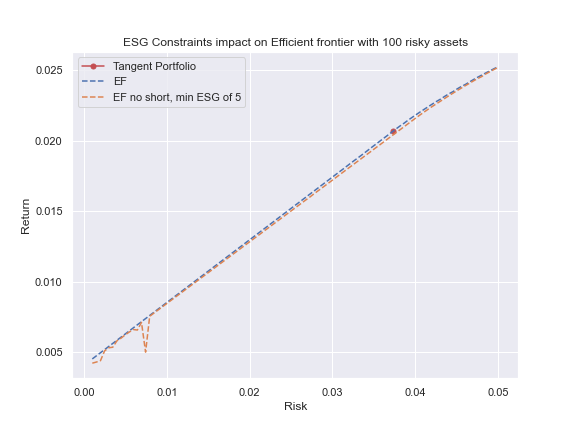
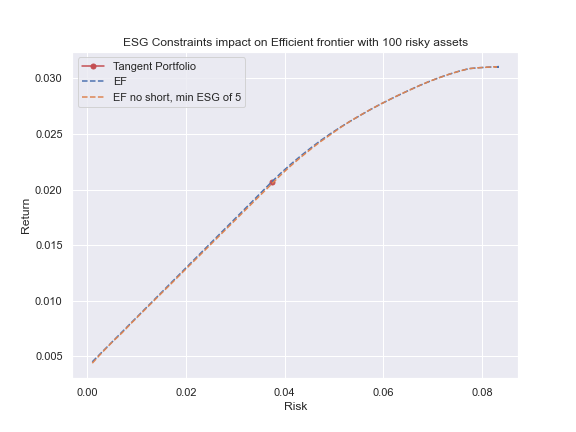
various fixes, figures and improvements

diff --git a/Portfolio.py b/Portfolio.py
@@ -7,14 +7,16 @@ Created on Tue Apr 23 14:33:32 2024
 import numpy as np
 import matplotlib.pyplot as plt
 from scipy.optimize import minimize, LinearConstraint, NonlinearConstraint
+import math
 
 class Portfolio:
-    def __init__(self,mu,sigma, rf, short_sales = True):
+    def __init__(self,mu,sigma, rf, short_sales = True, sectors = None):
         self.mu = mu
         self.sigma = sigma
         self.rf = rf
         self.n = len(mu)
         self.short_sales = short_sales
+        self.sectors = sectors
         
         # Is the risk-free included in the mean and covariance
         self.rf_params = False
@@ -45,14 +47,14 @@ class Portfolio:
         return weights.T.dot(self.mu)
     
     def get_sharpe(self, weights):
-        return ((self.get_return(weights) - self.rf)/ np.sqrt(self.get_variance(weights)))
+        return ((self.get_return(weights) - self.rf)/ self.get_risk(weights))
     
     def neg_mean_variance(self, weights, gamma):
-        
+        # Negative mean-variance objective
         return 1/2 * self.get_variance(weights) - gamma * self.get_return(weights)
         
     def neg_sharpe(self, weights):
-        return (- (self.get_return(weights) - self.rf)/ np.sqrt(self.get_variance(weights)))
+        return (- (self.get_return(weights) - self.rf)/ self.get_risk(weights))
     
     def neg_return(self,weights):
         return - weights.T.dot(self.mu)
@@ -69,7 +71,7 @@ class Portfolio:
     
     def bounds(self, input_bounds = None):
         if self.short_sales:
-            bounds = [(-1.0, 1.0) for _ in range(self.n)]
+            bounds = None
         elif input_bounds is None:
             bounds = [(0.0, 1.0) for _ in range(self.n)]
         else:
@@ -104,6 +106,7 @@ class Portfolio:
                           constraints = constraints, bounds = boundaries)            
             
         else:
+            # Mean variance tradeoff
             result = minimize(self.neg_mean_variance, x0 = initial_weights, 
                           args = (gamma,), method = 'SLSQP', 
                           constraints = constraints, bounds = boundaries)
@@ -120,22 +123,28 @@ class Portfolio:
 
         if method == 3:
             for c in np.linspace(min_ret, max_ret, n_points):
-                weights = self.optimal_portfolio(3, min_return = c, new_constraints= new_constraints)
-                risks.append(np.sqrt(self.get_variance(weights)))
-                returns.append(self.get_return(weights))
-                sharpes.append(- self.neg_sharpe(weights))
+                weights = self.optimal_portfolio(3, min_return = c, new_constraints = new_constraints)
+                risk = self.get_risk(weights)
+                if not(math.isnan(risk)):
+                    risks.append(risk)
+                    returns.append(self.get_return(weights))
+                    sharpes.append(- self.neg_sharpe(weights))
         elif method == 2:
             for c in np.linspace(min_std, max_std, n_points): 
-                weights = self.optimal_portfolio(2, max_risk= c, new_constraints= new_constraints)
-                risks.append(np.sqrt(self.get_variance(weights)))
-                returns.append(self.get_return(weights))
-                sharpes.append(- self.neg_sharpe(weights))            
+                weights = self.optimal_portfolio(2, max_risk= c, new_constraints = new_constraints)
+                risk = self.get_risk(weights)
+                if not(math.isnan(risk)):
+                    risks.append(risk)
+                    returns.append(self.get_return(weights))
+                    sharpes.append(- self.neg_sharpe(weights))            
         else: 
             for gamma in np.linspace(min_risk_tol, max_risk_tol, n_points):
-                weights = self.optimal_portfolio(1, gamma = gamma, new_constraints= new_constraints)
-                risks.append(np.sqrt(self.get_variance(weights)))
-                returns.append(self.get_return(weights))
-                sharpes.append(- self.neg_sharpe(weights))
+                weights = self.optimal_portfolio(1, gamma = gamma, new_constraints = new_constraints)
+                risk = self.get_risk(weights)
+                if not(math.isnan(risk)):
+                    risks.append(risk)
+                    returns.append(self.get_return(weights))
+                    sharpes.append(- self.neg_sharpe(weights))
         return risks, returns, sharpes
     
     def tangent_portfolio(self):

diff --git a/ScoreMaker.py b/ScoreMaker.py
@@ -65,7 +65,7 @@ class ScoreMaker:
             tau = 0
             for agency in self.dict_agencies:
                 #tau += kendalltau(self.dict_agencies[agency][self.valid_tickers], mix_labels, variant = 'c').statistic / len(dict_agencies)
-                tau += -kendalltau(self.ranks, mix_labels, variant = 'c').statistic
+                tau += -kendalltau(self.ranks[agency], mix_labels, variant = 'c').statistic
 
             if tau >= taumax:
                 taumax = tau
@@ -77,10 +77,11 @@ class ScoreMaker:
         return full_scores, taumax
     
     def make_score(self, full_scores):
+        
         mean_ranks = full_scores.groupby('labels').mean()
         global_mean_ranks = mean_ranks.mean(axis = 1)
         global_mean_ranks = global_mean_ranks.sort_values()
-
+        
         sorted_labels = global_mean_ranks.index.tolist()  # Get the sorted cluster labels
         
         # Create a mapping dictionary from original labels to sorted labels
@@ -89,9 +90,36 @@ class ScoreMaker:
 
         # Map the labels in the original DataFrame according to the sorted order
         full_scores['sorted_labels'] = full_scores['labels'].map(label_mapping)
+        
+        rank_stats = pd.DataFrame({'labels': global_mean_ranks.index, 'mean': global_mean_ranks.values})
+        rank_stats['labels'].map(label_mapping)
+        rank_stats['std'] = full_scores.groupby('sorted_labels').std().mean(axis=1)
+
+        self.full_ranks = full_scores
+        self.rank_stats = rank_stats
 
         ESGTV = pd.DataFrame({'Tag':self.valid_tickers,'Score':full_scores['sorted_labels']})
 
         ESGTV.dropna(inplace = True)
         return ESGTV
+    
+    def get_mean_ranks(self, labels_column = 'sorted_labels'):
+        agencies = self.full_ranks.columns[:4]
+        rank_df = pd.DataFrame(columns = agencies)
+        dfc = self.full_ranks.copy()
+        for agency in agencies:
+            mr = dfc[[agency, labels_column]].groupby(labels_column).mean().to_dict()
+            rank_df[agency] = mr[agency]
+            rank_df['cluster_mean_rank'] = rank_df.mean(axis=1)
+        return rank_df
+
+    def get_std_ranks(self, labels_column = 'sorted_labels'):
+        agencies = self.full_ranks.columns[:4]
+        rank_df = pd.DataFrame(columns = agencies)
+        dfc = self.full_ranks.copy()
+        for agency in agencies:
+            mr = dfc[[agency, labels_column]].groupby(labels_column).std().to_dict()
+            rank_df[agency] = mr
+            rank_df['cluster_std_rank'] = rank_df.mean(axis=1)
+        return rank_df
     

diff --git a/test_real_ESG.py b/test_real_ESG.py
@@ -35,18 +35,21 @@ sectors_list = SG.valid_sector_df
 SM = ScoreMaker(scores_ranks, dict_agencies, valid_tickers, valid_indices, 7)
 
 SMK = SM.kmeans()
+SMG, taumax = SM.classify_gaussian_mixture()
 
 ESGTV = SM.make_score(SMK)
+ESGTV2 = SM.make_score(SMG)
 
 # Worst score approach
-#ESGTV2 = SG.worst_score(scores_ranks, n_classes = 7)
+#ESGTV3 = SG.worst_score(scores_ranks, n_classes = 7)
+
 
 #%% Get the stock data and keep the companies in common with the target variable
 st = Stocks(path, annual_rf)
 st.process_data()
 st.compute_monthly_returns()
-_ = st.keep_common_tickers(ESGTV, sectors_list)
-stocks_ESG = st.restrict_assets(100)
+_ = st.keep_common_tickers(ESGTV2, sectors_list)
+stocks_ESG = st.restrict_assets(5)
 st.compute_mean()
 st.compute_covariance()
 mean, cov, rf = st.get_mean(), st.get_covariance(), st.get_rf()
@@ -55,7 +58,7 @@ st.plot_sectors()
 
 #%% Build a portfolio with restrictions on the minimal ESG score
 
-epf = ESG_Portfolio(mean,cov,rf, stocks_ESG, short_sales = False)
+epf = ESG_Portfolio(mean,cov,rf, stocks_ESG, short_sales = True)
 tangent_weights = epf.tangent_portfolio()
 tangent_risk, tangent_return = epf.get_risk(tangent_weights), epf.get_return(tangent_weights)
 
@@ -67,15 +70,16 @@ epf.plot_ESG_frontier(sharpes, ESG_list)
 
 #%% Efficient frontier depending on the ESG constraint
 
-risks, returns, sharpes = epf.efficient_frontier(max_std = 0.05, method = 2)
-risks_5, returns_5, sharpes_5 = epf.efficient_frontier(max_std = 0.05, method = 2, new_constraints = [epf.ESG_constraint(5)])
-
-#%% Plot them
-
+risks, returns, sharpes = epf.efficient_frontier(max_std = 0.10, method = 2)
 epf.new_figure()
 epf.plot_tangent(tangent_risk, tangent_return)
 epf.plot_constrained_frontier(risks, returns)
-epf.plot_constrained_frontier(risks_5, returns_5, ESG_min_level = 5)
+
+for min_ESG in range(4,8):
+    risks_new, returns_new, sharpes_new = epf.efficient_frontier(max_std = 0.10, method = 2, new_constraints = [epf.ESG_constraint(min_ESG)])
+    epf.plot_constrained_frontier(risks_new, returns_new, ESG_min_level = min_ESG)
+#%% Plot them
+
 
 #%% Efficient frontiers with additional constraints
 

diff --git a/ESG/barres.py b/ESG/barres.py
@@ -154,7 +154,7 @@ def evolve(popu, cache, MSv, SPv, REv, low = 2, up = 100, mutate_chance = 0.1, b
     while children_count < wanted_children:
         couple = rd.sample(next_gen, 2)
         child = np.concatenate((couple[0][:given_len],couple[1][given_len:]))
-        if np.sort(child) == child:
+        if (np.sort(child) == child).all():
             children.append(child)
             children_count +=1
     next_gen.extend(children)
@@ -170,7 +170,7 @@ def evolve(popu, cache, MSv, SPv, REv, low = 2, up = 100, mutate_chance = 0.1, b
 def genetics(count, length, max_gen, accuracy, MSv, SPv, REv, low = 2, up = 100, mutate_chance = 0.1, best_kept_prop = 0.5, rd_kept_chance = 0.1):
     popu = population(count, length, low, up)
     gen_count = 0
-    avg_fit = accuracy + 1 
+    avg_fit = accuracy - 1
 
     known_fit = {}
 

diff --git a/ScoreGetter.py b/ScoreGetter.py
@@ -159,7 +159,6 @@ class ScoreGetter:
         # A higher rank indicates a low score
         reverse_rank = lambda x: 334-x
         
-        
         for agency in ranks.columns:
             ranks[agency] = ranks[agency].map(reverse_rank)
             ranks[agency] = ranks[agency].map(mapping)

diff --git a/ESG/scores_analysis.py b/ESG/scores_analysis.py
@@ -144,7 +144,6 @@ sns.boxplot(data=RE_sectors, y="Sector_B", x='Score',
 plt.title("Scores in each sector for Refinitiv data")
 plt.savefig("Figures/RE_sectors_scores.png", bbox_inches="tight")
 
-
 #%% Gini sector means
 
 RE_means = RE_sectors[['Sector_B','Score']].groupby(['Sector_B']).mean()
